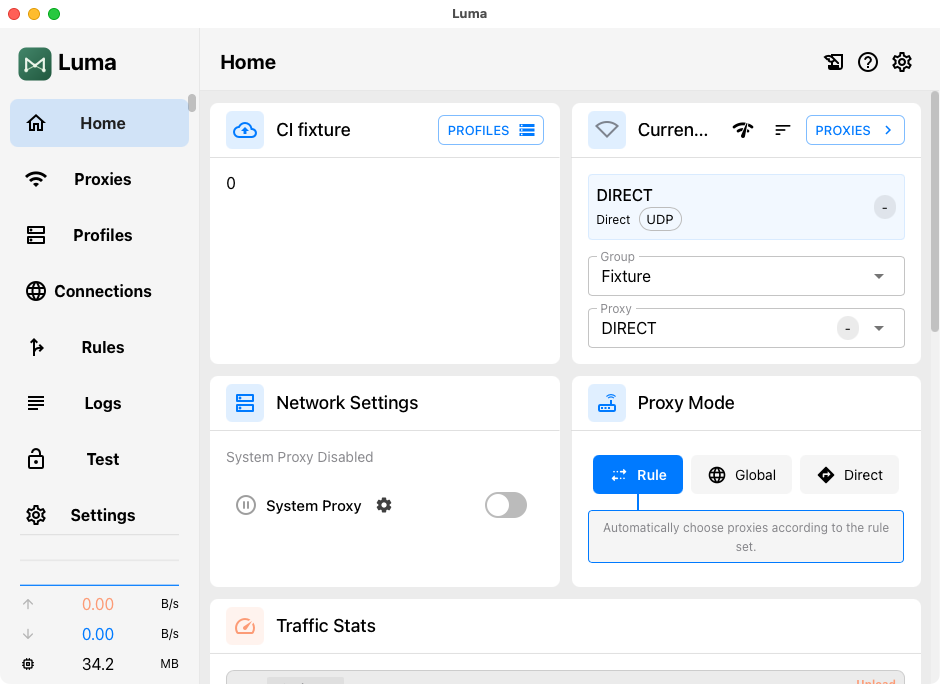
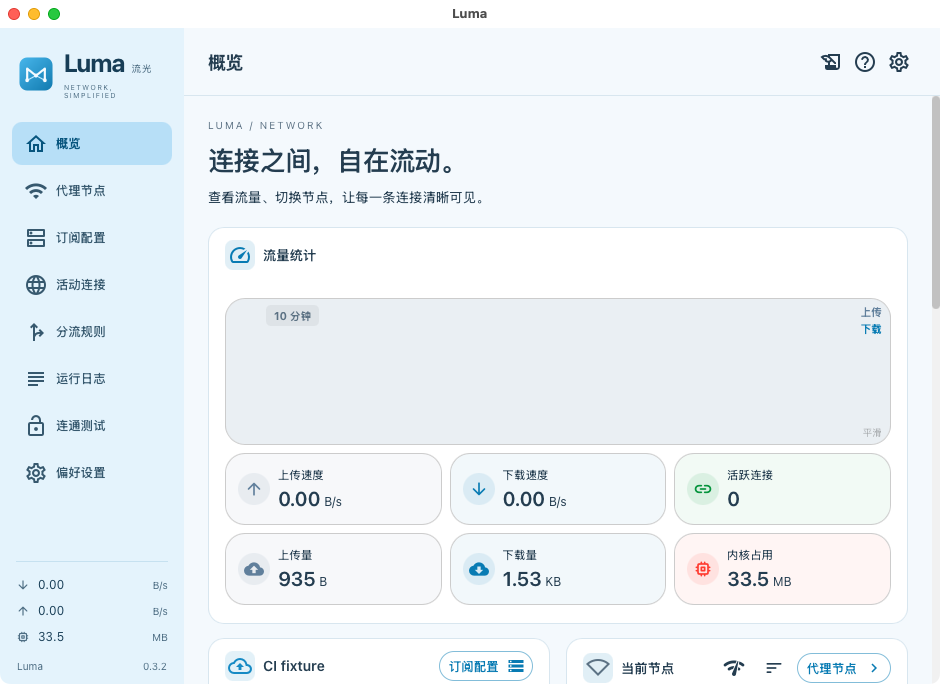
chore(release): publish Luma 0.3.2 download page

diff --git a/website/assets/site.css b/website/assets/site.css
@@ -1,6 +1,6 @@
 @charset "UTF-8";
-:root{--paper:#f5f7f2;--ink:#243d32;--muted:#627468;--green:#287052;--line:#d9e2d8;--soft:#eaf0e7;--white:#fff;--font:-apple-system,BlinkMacSystemFont,"Segoe UI","PingFang SC","Hiragino Sans GB","Microsoft YaHei",sans-serif}
-*{box-sizing:border-box}html{scroll-behavior:smooth;scroll-padding-top:32px}body{margin:0;background:var(--paper);color:var(--ink);font-family:var(--font);-webkit-font-smoothing:antialiased}a{color:inherit;text-decoration:none}button,a{-webkit-tap-highlight-color:transparent}a:focus-visible,summary:focus-visible{outline:3px solid #407958;outline-offset:6px;border-radius:4px}::selection{background:#c9dfbd}img{display:block;max-width:100%}.wrap{width:min(1240px,calc(100% - 96px));margin-inline:auto}.skip-link{position:fixed;left:20px;top:-100px;padding:12px 20px;background:var(--ink);color:white;z-index:20}.skip-link:focus{top:12px}.site-header{height:100px;display:flex;align-items:center;justify-content:space-between;gap:32px;border-bottom:1px solid var(--line)}.brand{display:inline-flex;align-items:center;gap:10px;flex-shrink:0}.brand>span{font-weight:750;font-size:25px;letter-spacing:-1px}.brand small{font-size:13px;letter-spacing:2px;margin-left:6px;font-weight:500}.site-header nav{display:flex;gap:32px;align-items:center;font-size:13px;font-weight:550;color:#536359}.site-header nav a:hover,.text-link:hover,.file-meta a:hover{color:var(--green)}.github-link span{margin-left:5px}.nav-download{display:inline-flex;gap:25px;align-items:center;padding:10px 17px;font-size:13px;border:1px solid var(--line);border-radius:6px;transition:background .2s}.nav-download:hover{background:var(--soft)}.hero{min-height:690px;padding-block:92px 80px;display:grid;grid-template-columns:.85fr 1.25fr;align-items:center;gap:36px}.release-tag{font-size:11px;letter-spacing:.5px;display:inline-flex;align-items:center;gap:10px;padding:7px 11px;border:1px solid #ceddc9;border-radius:4px;background:#edf3e8}.release-tag>span:last-child{margin-left:10px}.status-dot{display:inline-block;width:6px;height:6px;border-radius:50%;background:#45815c;flex-shrink:0}.hero h1{font-size:clamp(44px,4.6vw,66px);font-weight:650;letter-spacing:-3px;line-height:1.3;margin:28px 0 23px}.hero h1>span{color:#41805a}.hero-intro{font-size:15px;line-height:1.95;color:var(--muted);margin:0;letter-spacing:.5px}.hero-actions{display:flex;align-items:center;gap:28px;margin-top:32px}.button{display:inline-flex;justify-content:center;align-items:center;gap:28px;font-size:14px;font-weight:600;min-height:48px;border-radius:6px;padding:12px 23px;transition:background .2s,transform .2s}.button:hover{transform:translateY(-2px)}.button-primary{color:white;background:var(--green);box-shadow:0 5px 12px #17462f0b}.button-primary:hover{background:#215d44}.button svg,.principles svg{width:19px;height:19px;fill:none;stroke:currentColor;stroke-width:1.5;stroke-linecap:round;stroke-linejoin:round}.text-link{font-size:12px;font-weight:550;display:inline-flex;align-items:center;gap:12px}.hero-platforms{font-size:11px;color:#627468;display:flex;gap:18px;flex-wrap:wrap;margin-top:20px}.hero-platforms>span{color:#748175}.hero-art{position:relative;min-width:0;padding:32px 0 26px;isolation:isolate}.hero-art:before{content:"";position:absolute;inset:-38px -23px;background:radial-gradient(ellipse,#d7e3c9 0,transparent 70%);z-index:-2}.orbit{position:absolute;z-index:-1;width:480px;height:480px;left:50%;top:50%;transform:translate(-50%,-50%);border:1px solid #b9c8ad55;border-radius:50%;pointer-events:none}.orbit-two{width:585px;height:585px;border-style:dashed;opacity:.6}.art-caption{display:flex;align-items:center;gap:10px;font-size:8px;letter-spacing:2px;margin:0 0 16px 10px;color:#5f795e}.tiny-cross{font-size:16px;font-weight:300;line-height:1}.app-preview{margin:0;overflow:hidden;border-radius:10px;border:1px solid #cbd7cb;box-shadow:0 24px 65px -26px #263e354d,0 2px 3px #273c3406;background:#fff;transform:perspective(1800px) rotateY(-7deg) rotateX(2deg)}.app-preview img{width:100%;height:auto}.preview-note{display:flex;align-items:center;gap:8px;font-size:10px;letter-spacing:.5px;margin-top:23px;color:#61735e}.preview-version{margin-left:auto;font-size:8px;letter-spacing:1px;color:#74836e}.principles{display:flex;justify-content:space-between;gap:25px;border-block:1px solid var(--line);padding-block:25px;color:#5d7062;font-size:12px}.principles>span{display:flex;align-items:center;gap:12px}.principles svg{color:#3d7455}.section{padding-block:94px}.section-heading{display:flex;justify-content:space-between;align-items:flex-end;gap:40px;margin-bottom:43px}.eyebrow{font-size:9px;letter-spacing:2px;line-height:1.5;color:#718367;margin:0 0 19px;font-weight:600}h2{font-size:38px;line-height:1.45;font-weight:550;letter-spacing:-1px;margin:0}.section-aside{font-size:13px;line-height:1.9;color:var(--muted);margin:0 0 5px}.feature-grid{display:grid;grid-template-columns:repeat(3,1fr);gap:55px}.feature-grid article{border-top:1px solid var(--line);padding-top:24px}.feature-number{font-family:ui-monospace,SFMono-Regular,Consolas,monospace;font-size:10px;letter-spacing:1px;color:#73866d}.feature-grid h3{font-size:20px;margin:25px 0 15px;font-weight:550}.feature-grid p{font-size:13px;line-height:1.9;color:var(--muted);margin:0;min-height:77px}.feature-detail{display:flex;align-items:center;gap:8px;font-size:10px;color:#426b50;margin-top:28px;height:27px}.quiet-symbol{font-size:22px}.mode-demo{display:flex;width:170px;justify-content:space-around;align-items:center;font-size:10px;color:#788470;background:#e8eee2;border:1px solid #d9e2d1;border-radius:5px;padding:3px;margin-top:26px}.mode-demo span{padding:5px 12px}.mode-demo span:first-child{background:#fff;color:#39704e;box-shadow:0 1px 3px #2944280c;border-radius:3px}.download-section{background:#e9eee4;border-block:1px solid #dce4d6;padding-block:85px}.download-section .section-heading{margin-bottom:26px}.version-label{font-size:11px;color:#566d54;display:grid;grid-template-columns:7px auto auto;gap:10px;align-items:center;margin-bottom:8px}.version-label strong{font-family:ui-monospace,SFMono-Regular,monospace;font-size:13px;color:var(--ink);font-weight:500}.version-label small{grid-column:2/4;font-size:10px;color:#687a5e}.device-hint{font-size:11px;color:#66785f;margin:0 0 20px}.download-grid{display:grid;grid-template-columns:repeat(3,1fr);gap:20px}.download-card{background:#f8faf6;border:1px solid #d0ddc9;border-radius:12px;padding:30px 27px 20px}.download-card.is-current{border-color:#91b28d;box-shadow:0 0 0 1px #91b28d}.platform-heading{display:flex;justify-content:space-between;align-items:center}.platform-icon{width:29px;height:29px;fill:#31503b}.windows-icon{width:26px;height:26px}.architecture{font-family:ui-monospace,SFMono-Regular,Consolas,monospace;font-size:9px;color:#6e7e64;border:1px solid #dbe4d5;border-radius:4px;padding:5px 7px}.download-card h3{font-size:24px;font-weight:550;margin:27px 0 8px;letter-spacing:-.5px}.download-card>p{font-size:11px;line-height:1.6;color:#6b7b63;margin:0 0 28px}.platform-download{width:100%;justify-content:space-between;background:#2d684b;color:white;font-size:12px;min-height:44px;padding:12px 16px}.platform-download:hover{background:#21573e}.platform-download span{font-size:17px;font-weight:400}.file-meta{display:flex;justify-content:space-between;gap:7px;margin-top:13px;font-size:9px;color:#63745b}.file-meta a{text-decoration:underline;text-decoration-color:#aab9a1;text-underline-offset:3px}.download-notes{margin-top:22px}.download-notes p{margin:4px 0;font-size:10px;line-height:1.8;color:#687960}.download-notes a{color:#355e40;text-decoration:underline;text-underline-offset:3px}.mobile-note{display:flex;gap:25px;align-items:center;border-top:1px solid #d0ddc8;margin-top:35px;padding-top:25px;font-size:12px}.mobile-note>span:first-child{font-weight:600}.mobile-note p{margin:0;color:#697b61;font-size:11px}.coming-soon{font-size:9px;letter-spacing:1px;border:1px solid #cbd8c2;border-radius:4px;padding:5px 9px;margin-left:auto;white-space:nowrap;color:#657b5c}.guide{display:grid;grid-template-columns:.9fr 1.2fr;gap:80px}.guide-intro .text-link{margin-top:30px;color:#60735c}.questions{border-top:1px solid var(--line)}details{border-bottom:1px solid var(--line);scroll-margin-top:35px}summary{cursor:pointer;list-style:none;display:flex;align-items:center;justify-content:space-between;gap:20px;padding:23px 0;font-size:13px;font-weight:550}summary::-webkit-details-marker{display:none}summary>span{font-size:20px;line-height:1;color:#7b8b6f;font-weight:300;transition:transform .2s}details[open] summary>span{transform:rotate(45deg)}.answer{font-size:12px;line-height:1.95;color:var(--muted);padding-bottom:23px}.answer p{margin:0 0 10px}.answer p:last-child{margin-bottom:0}.site-footer{border-top:1px solid var(--line);padding-block:28px 35px;display:flex;align-items:center;gap:30px}.site-footer .brand>span{font-size:22px}.site-footer .brand small{font-size:11px}.site-footer>p{font-size:11px;color:#687960}.site-footer>div{margin-left:auto;display:flex;gap:23px;font-size:10px;color:#697b61}.site-footer>div a{color:#3d5f45}
+:root{--paper:#f4f9fd;--ink:#243d50;--muted:#5c7284;--accent:#087bb3;--line:#d8e6ef;--soft:#e4f3fc;--white:#fff;--font:-apple-system,BlinkMacSystemFont,"Segoe UI","PingFang SC","Hiragino Sans GB","Microsoft YaHei",sans-serif}
+*{box-sizing:border-box}html{scroll-behavior:smooth;scroll-padding-top:32px}body{margin:0;background:var(--paper);color:var(--ink);font-family:var(--font);-webkit-font-smoothing:antialiased}a{color:inherit;text-decoration:none}button,a{-webkit-tap-highlight-color:transparent}a:focus-visible,summary:focus-visible{outline:3px solid #406479;outline-offset:6px;border-radius:4px}::selection{background:#bdd3df}img{display:block;max-width:100%}.wrap{width:min(1240px,calc(100% - 96px));margin-inline:auto}.skip-link{position:fixed;left:20px;top:-100px;padding:12px 20px;background:var(--ink);color:white;z-index:20}.skip-link:focus{top:12px}.site-header{height:100px;display:flex;align-items:center;justify-content:space-between;gap:32px;border-bottom:1px solid var(--line)}.brand{display:inline-flex;align-items:center;gap:10px;flex-shrink:0}.brand>span{font-weight:750;font-size:25px;letter-spacing:-1px}.brand small{font-size:13px;letter-spacing:2px;margin-left:6px;font-weight:500}.site-header nav{display:flex;gap:32px;align-items:center;font-size:13px;font-weight:550;color:#535d63}.site-header nav a:hover,.text-link:hover,.file-meta a:hover{color:var(--accent)}.github-link span{margin-left:5px}.nav-download{display:inline-flex;gap:25px;align-items:center;padding:10px 17px;font-size:13px;border:1px solid var(--line);border-radius:6px;transition:background .2s}.nav-download:hover{background:var(--soft)}.hero{min-height:690px;padding-block:92px 80px;display:grid;grid-template-columns:.85fr 1.25fr;align-items:center;gap:36px}.release-tag{font-size:11px;letter-spacing:.5px;display:inline-flex;align-items:center;gap:10px;padding:7px 11px;border:1px solid #c9d6dd;border-radius:4px;background:#e8eff3}.release-tag>span:last-child{margin-left:10px}.status-dot{display:inline-block;width:6px;height:6px;border-radius:50%;background:#456b81;flex-shrink:0}.hero h1{font-size:clamp(44px,4.6vw,66px);font-weight:650;letter-spacing:-3px;line-height:1.3;margin:28px 0 23px}.hero h1>span{color:#416980}.hero-intro{font-size:15px;line-height:1.95;color:var(--muted);margin:0;letter-spacing:.5px}.hero-actions{display:flex;align-items:center;gap:28px;margin-top:32px}.button{display:inline-flex;justify-content:center;align-items:center;gap:28px;font-size:14px;font-weight:600;min-height:48px;border-radius:6px;padding:12px 23px;transition:background .2s,transform .2s}.button:hover{transform:translateY(-2px)}.button-primary{color:white;background:var(--accent);box-shadow:0 5px 12px #1735460b}.button-primary:hover{background:#075f8a}.button svg,.principles svg{width:19px;height:19px;fill:none;stroke:currentColor;stroke-width:1.5;stroke-linecap:round;stroke-linejoin:round}.text-link{font-size:12px;font-weight:550;display:inline-flex;align-items:center;gap:12px}.hero-platforms{font-size:11px;color:#5c7284;display:flex;gap:18px;flex-wrap:wrap;margin-top:20px}.hero-platforms>span{color:#747c81}.hero-art{position:relative;min-width:0;padding:32px 0 26px;isolation:isolate}.hero-art:before{content:"";position:absolute;inset:-38px -23px;background:radial-gradient(ellipse,#c9d9e3 0,transparent 70%);z-index:-2}.orbit{position:absolute;z-index:-1;width:480px;height:480px;left:50%;top:50%;transform:translate(-50%,-50%);border:1px solid #adbec855;border-radius:50%;pointer-events:none}.orbit-two{width:585px;height:585px;border-style:dashed;opacity:.6}.art-caption{display:flex;align-items:center;gap:10px;font-size:8px;letter-spacing:2px;margin:0 0 16px 10px;color:#5e6f79}.tiny-cross{font-size:16px;font-weight:300;line-height:1}.app-preview{margin:0;overflow:hidden;border-radius:10px;border:1px solid #cbd3d7;box-shadow:0 24px 65px -26px #26353e4d,0 2px 3px #27343c06;background:#fff;transform:perspective(1800px) rotateY(-7deg) rotateX(2deg)}.app-preview img{width:100%;height:auto}.preview-note{display:flex;align-items:center;gap:8px;font-size:10px;letter-spacing:.5px;margin-top:23px;color:#5e6b73}.preview-version{margin-left:auto;font-size:8px;letter-spacing:1px;color:#6e7b83}.principles{display:flex;justify-content:space-between;gap:25px;border-block:1px solid var(--line);padding-block:25px;color:#5d6970;font-size:12px}.principles>span{display:flex;align-items:center;gap:12px}.principles svg{color:#3d6074}.section{padding-block:94px}.section-heading{display:flex;justify-content:space-between;align-items:flex-end;gap:40px;margin-bottom:43px}.eyebrow{font-size:9px;letter-spacing:2px;line-height:1.5;color:#677983;margin:0 0 19px;font-weight:600}h2{font-size:38px;line-height:1.45;font-weight:550;letter-spacing:-1px;margin:0}.section-aside{font-size:13px;line-height:1.9;color:var(--muted);margin:0 0 5px}.feature-grid{display:grid;grid-template-columns:repeat(3,1fr);gap:55px}.feature-grid article{border-top:1px solid var(--line);padding-top:24px}.feature-number{font-family:ui-monospace,SFMono-Regular,Consolas,monospace;font-size:10px;letter-spacing:1px;color:#6d7d86}.feature-grid h3{font-size:20px;margin:25px 0 15px;font-weight:550}.feature-grid p{font-size:13px;line-height:1.9;color:var(--muted);margin:0;min-height:77px}.feature-detail{display:flex;align-items:center;gap:8px;font-size:10px;color:#425c6b;margin-top:28px;height:27px}.quiet-symbol{font-size:22px}.mode-demo{display:flex;width:170px;justify-content:space-around;align-items:center;font-size:10px;color:#707d84;background:#e2eaee;border:1px solid #d1dce2;border-radius:5px;padding:3px;margin-top:26px}.mode-demo span{padding:5px 12px}.mode-demo span:first-child{background:#fff;color:#395c70;box-shadow:0 1px 3px #283a440c;border-radius:3px}.download-section{background:#e4eaee;border-block:1px solid #d6dfe4;padding-block:85px}.download-section .section-heading{margin-bottom:26px}.version-label{font-size:11px;color:#54646d;display:grid;grid-template-columns:7px auto auto;gap:10px;align-items:center;margin-bottom:8px}.version-label strong{font-family:ui-monospace,SFMono-Regular,monospace;font-size:13px;color:var(--ink);font-weight:500}.version-label small{grid-column:2/4;font-size:10px;color:#5e707a}.device-hint{font-size:11px;color:#5f6f78;margin:0 0 20px}.download-grid{display:grid;grid-template-columns:repeat(3,1fr);gap:20px}.download-card{background:#f6f9fa;border:1px solid #c9d6dd;border-radius:12px;padding:30px 27px 20px}.download-card.is-current{border-color:#8da4b2;box-shadow:0 0 0 1px #8da4b2}.platform-heading{display:flex;justify-content:space-between;align-items:center}.platform-icon{width:29px;height:29px;fill:#314550}.windows-icon{width:26px;height:26px}.architecture{font-family:ui-monospace,SFMono-Regular,Consolas,monospace;font-size:9px;color:#64747e;border:1px solid #d5dee4;border-radius:4px;padding:5px 7px}.download-card h3{font-size:24px;font-weight:550;margin:27px 0 8px;letter-spacing:-.5px}.download-card>p{font-size:11px;line-height:1.6;color:#63727b;margin:0 0 28px}.platform-download{width:100%;justify-content:space-between;background:#087bb3;color:white;font-size:12px;min-height:44px;padding:12px 16px}.platform-download:hover{background:#075f8a}.platform-download span{font-size:17px;font-weight:400}.file-meta{display:flex;justify-content:space-between;gap:7px;margin-top:13px;font-size:9px;color:#5b6b74}.file-meta a{text-decoration:underline;text-decoration-color:#a1b0b9;text-underline-offset:3px}.download-notes{margin-top:22px}.download-notes p{margin:4px 0;font-size:10px;line-height:1.8;color:#607079}.download-notes a{color:#354f5e;text-decoration:underline;text-underline-offset:3px}.mobile-note{display:flex;gap:25px;align-items:center;border-top:1px solid #c8d5dd;margin-top:35px;padding-top:25px;font-size:12px}.mobile-note>span:first-child{font-weight:600}.mobile-note p{margin:0;color:#61717b;font-size:11px}.coming-soon{font-size:9px;letter-spacing:1px;border:1px solid #c2d0d8;border-radius:4px;padding:5px 9px;margin-left:auto;white-space:nowrap;color:#5c707b}.guide{display:grid;grid-template-columns:.9fr 1.2fr;gap:80px}.guide-intro .text-link{margin-top:30px;color:#5c6b73}.questions{border-top:1px solid var(--line)}details{border-bottom:1px solid var(--line);scroll-margin-top:35px}summary{cursor:pointer;list-style:none;display:flex;align-items:center;justify-content:space-between;gap:20px;padding:23px 0;font-size:13px;font-weight:550}summary::-webkit-details-marker{display:none}summary>span{font-size:20px;line-height:1;color:#6f818b;font-weight:300;transition:transform .2s}details[open] summary>span{transform:rotate(45deg)}.answer{font-size:12px;line-height:1.95;color:var(--muted);padding-bottom:23px}.answer p{margin:0 0 10px}.answer p:last-child{margin-bottom:0}.site-footer{border-top:1px solid var(--line);padding-block:28px 35px;display:flex;align-items:center;gap:30px}.site-footer .brand>span{font-size:22px}.site-footer .brand small{font-size:11px}.site-footer>p{font-size:11px;color:#607079}.site-footer>div{margin-left:auto;display:flex;gap:23px;font-size:10px;color:#61717b}.site-footer>div a{color:#3d535f}
 @media(min-width:1600px){.hero{min-height:740px}.hero h1{font-size:70px}}
 @media(max-width:1100px){.wrap{width:calc(100% - 64px)}.hero{gap:26px;min-height:620px;padding-block:70px}.hero h1{font-size:52px}.hero-intro{font-size:13px}.hero-actions{gap:18px}.button-primary{padding-inline:18px;gap:20px}.hero-art .orbit{width:350px;height:350px}.hero-art .orbit-two{width:440px;height:440px}.feature-grid{gap:28px}.download-card{padding:25px 20px 20px}.guide{gap:45px}}
 @media(max-width:800px){.wrap{width:calc(100% - 40px)}.site-header{height:80px;gap:16px}.site-header nav{gap:20px}.site-header nav a:first-child{display:none}.hero{grid-template-columns:1fr;gap:30px;padding-block:55px 35px}.hero-copy{text-align:center}.hero h1{font-size:58px;letter-spacing:-2px;margin-top:25px}.hero-intro{font-size:14px}.hero-actions,.hero-platforms{justify-content:center}.hero-art{width:min(610px,100%);margin-inline:auto;padding-top:24px}.hero-art:before{inset:-15px 0}.hero-art .orbit{width:370px;height:370px;max-width:90%}.hero-art .orbit-two{width:470px;height:470px;max-width:100%}.app-preview{transform:none}.principles{gap:15px;font-size:10px;padding-block:22px}.principles>span{gap:7px}.principles svg{width:17px;height:17px;flex-shrink:0}.section{padding-block:65px}h2{font-size:32px}.section-heading{gap:25px;margin-bottom:30px}.section-aside{font-size:12px}.feature-grid{gap:22px}.feature-grid h3{font-size:17px}.feature-grid p{font-size:12px;min-height:115px}.feature-detail{font-size:9px;gap:5px}.download-section{padding-block:60px}.download-grid{gap:12px}.download-card{padding:22px 16px 18px}.architecture{font-size:8px;padding:4px}.download-card h3{font-size:21px}.platform-download{padding:11px 12px;font-size:11px;gap:8px}.file-meta{font-size:8px}.guide{gap:35px;grid-template-columns:.85fr 1.15fr}.site-footer{gap:15px}.site-footer>div{gap:14px}.site-footer>p{display:none}}

diff --git a/website/index.html b/website/index.html
@@ -3,20 +3,20 @@
 <head>
   <meta charset="UTF-8">
   <meta name="viewport" content="width=device-width, initial-scale=1">
-  <meta name="theme-color" content="#f5f7f2">
+  <meta name="theme-color" content="#f4f9fd">
   <meta name="description" content="Luma 流光，基于 Clash Verge Rev 与 Mihomo 的开源桌面代理客户端。内置内核与规则数据，支持 Mac Apple Silicon、Mac Intel 和 Windows。">
   <meta property="og:title" content="Luma 流光 · 让连接，自由发生">
   <meta property="og:description" content="简洁的界面，清晰的连接。下载 Luma，轻松管理你的代理网络。">
   <meta property="og:type" content="website">
   <title>Luma 流光 · 让连接，自由发生</title>
-  <link rel="icon" href="assets/icon.svg" type="image/svg+xml">
-  <link rel="stylesheet" href="assets/site.css?v=0.3.0">
-  <script src="assets/site.js?v=0.3.0" defer></script>
+  <link rel="icon" href="assets/icon.svg?v=0.3.2" type="image/svg+xml">
+  <link rel="stylesheet" href="assets/site.css?v=0.3.2">
+  <script src="assets/site.js?v=0.3.2" defer></script>
 </head>
 <body>
   <a class="skip-link" href="#main">跳转到正文</a>
   <header class="site-header wrap">
-    <a class="brand" href="#" aria-label="Luma 流光首页"><img src="assets/icon.svg" width="38" height="38" alt=""><span>Luma <small>流光</small></span></a>
+    <a class="brand" href="#" aria-label="Luma 流光首页"><img src="assets/icon.svg?v=0.3.2" width="38" height="38" alt=""><span>Luma <small>流光</small></span></a>
     <nav aria-label="主导航">
       <a href="#features">产品特点</a>
       <a href="#guide">使用指南</a>
@@ -28,7 +28,7 @@
   <main id="main">
     <section class="hero wrap" aria-labelledby="hero-title">
       <div class="hero-copy">
-        <a class="release-tag" href="#downloads"><span class="status-dot"></span> Luma 0.3.0 已发布 <span aria-hidden="true">↗</span></a>
+        <a class="release-tag" href="#downloads"><span class="status-dot"></span> Luma 0.3.2 已发布 <span aria-hidden="true">↗</span></a>
         <h1 id="hero-title">让连接，<br><span>自由发生。</span></h1>
         <p class="hero-intro">把复杂留给内核，把简单留给你。<br>一个清爽、专注的开源桌面代理客户端。</p>
         <div class="hero-actions">
@@ -42,9 +42,9 @@
         <div class="orbit orbit-two" aria-hidden="true"></div>
         <div class="art-caption"><span class="tiny-cross" aria-hidden="true">+</span> YOUR NETWORK, AT A GLANCE</div>
         <figure class="app-preview">
-          <img src="assets/overview.png?v=0.3.0" width="940" height="684" fetchpriority="high" alt="Luma 使用本地测试配置的真实界面：首页、代理组、订阅与连接管理。">
+          <img src="assets/overview.png?v=0.3.2-blue" width="940" height="684" fetchpriority="high" alt="Luma 使用本地测试配置的真实界面：天蓝色概览、代理节点、订阅配置与连接管理。">
         </figure>
-        <div class="preview-note"><span class="status-dot"></span> 清晰掌握每一次连接 <span class="preview-version">LUMA / 0.3.0</span></div>
+        <div class="preview-note"><span class="status-dot"></span> 清晰掌握每一次连接 <span class="preview-version">LUMA / 0.3.2</span></div>
       </div>
     </section>
 
@@ -65,26 +65,26 @@
 
     <section class="download-section" id="downloads" aria-labelledby="downloads-title">
       <div class="wrap">
-        <div class="section-heading"><div><p class="eyebrow">YOUR NEXT CONNECTION</p><h2 id="downloads-title">为你的设备，<br>选一个 Luma。</h2></div><div class="version-label"><span class="status-dot"></span> 当前版本 <strong>0.3.0</strong><small>内置 Mihomo v1.19.32</small></div></div>
+        <div class="section-heading"><div><p class="eyebrow">YOUR NEXT CONNECTION</p><h2 id="downloads-title">为你的设备，<br>选一个 Luma。</h2></div><div class="version-label"><span class="status-dot"></span> 当前版本 <strong>0.3.2</strong><small>内置 Mihomo v1.19.32</small></div></div>
         <p class="device-hint" id="device-hint">Mac 用户可在「 → 关于本机」中查看芯片型号。</p>
         <div class="download-grid">
           <article class="download-card" data-platform="mac">
             <div class="platform-heading"><svg class="platform-icon" aria-hidden="true" viewBox="0 0 32 32"><path d="M21 3c0 3-2 5-5 5 0-3 2-5 5-5ZM23 9c-3-2-5 0-7 0s-4-2-7 0c-5 3-3 13 1 17 2 2 4 0 6 0s4 2 6 0c2-2 4-5 4-7-5-2-5-7-1-9l-2-1Z"/></svg><span class="architecture">Apple Silicon</span></div>
             <h3>Mac M 系列</h3><p>适用于搭载 Apple 芯片的 Mac</p>
-            <a class="button platform-download" href="downloads/0.3.0/Luma-0.3.0-arm64.pkg" download>下载 Mac M 版 <span aria-hidden="true">↓</span></a>
-            <div class="file-meta"><span data-size="mac-arm64">PKG 安装包</span><a href="downloads/0.3.0/Luma-0.3.0-arm64.pkg.sha256">SHA-256</a></div>
+            <a class="button platform-download" href="downloads/0.3.2/Luma-0.3.2-arm64.pkg" download>下载 Mac M 版 <span aria-hidden="true">↓</span></a>
+            <div class="file-meta"><span data-size="mac-arm64">PKG 安装包</span><a href="downloads/0.3.2/Luma-0.3.2-arm64.pkg.sha256">SHA-256</a></div>
           </article>
           <article class="download-card" data-platform="mac">
             <div class="platform-heading"><svg class="platform-icon" aria-hidden="true" viewBox="0 0 32 32"><path d="M21 3c0 3-2 5-5 5 0-3 2-5 5-5ZM23 9c-3-2-5 0-7 0s-4-2-7 0c-5 3-3 13 1 17 2 2 4 0 6 0s4 2 6 0c2-2 4-5 4-7-5-2-5-7-1-9l-2-1Z"/></svg><span class="architecture">Intel · x64</span></div>
             <h3>Mac Intel</h3><p>适用于搭载 Intel 处理器的 Mac</p>
-            <a class="button platform-download" href="downloads/0.3.0/Luma-0.3.0-x64.pkg" download>下载 Mac Intel 版 <span aria-hidden="true">↓</span></a>
-            <div class="file-meta"><span data-size="mac-x64">PKG 安装包</span><a href="downloads/0.3.0/Luma-0.3.0-x64.pkg.sha256">SHA-256</a></div>
+            <a class="button platform-download" href="downloads/0.3.2/Luma-0.3.2-x64.pkg" download>下载 Mac Intel 版 <span aria-hidden="true">↓</span></a>
+            <div class="file-meta"><span data-size="mac-x64">PKG 安装包</span><a href="downloads/0.3.2/Luma-0.3.2-x64.pkg.sha256">SHA-256</a></div>
           </article>
           <article class="download-card" data-platform="windows">
             <div class="platform-heading"><svg class="platform-icon windows-icon" aria-hidden="true" viewBox="0 0 32 32"><path d="M3 6 15 4v11H3Zm14-2 12-2v13H17ZM3 17h12v11L3 26Zm14 0h12v13l-12-2Z"/></svg><span class="architecture">64-bit · x64</span></div>
             <h3>Windows</h3><p>适用于 64 位 Intel / AMD 电脑</p>
-            <a class="button platform-download" href="downloads/0.3.0/Luma-0.3.0-win-x64.exe" download>下载 Windows 版 <span aria-hidden="true">↓</span></a>
-            <div class="file-meta"><span data-size="win-x64">EXE 安装包</span><a href="downloads/0.3.0/Luma-0.3.0-win-x64.exe.sha256">SHA-256</a></div>
+            <a class="button platform-download" href="downloads/0.3.2/Luma-0.3.2-win-x64.exe" download>下载 Windows 版 <span aria-hidden="true">↓</span></a>
+            <div class="file-meta"><span data-size="win-x64">EXE 安装包</span><a href="downloads/0.3.2/Luma-0.3.2-win-x64.exe.sha256">SHA-256</a></div>
           </article>
         </div>
         <div class="download-notes"><p>安装包已包含内核和规则数据，不包含任何个人订阅。Mac 安装器会将应用安装到「应用程序」。</p><p>当前安装包未签名，首次安装可能出现系统安全提示。<a href="#install-note">查看安装说明 ↗</a></p></div>
@@ -95,7 +95,7 @@
     <section class="guide wrap section" id="guide" aria-labelledby="guide-title">
       <div class="guide-intro"><p class="eyebrow">A SIMPLE START</p><h2 id="guide-title">开始之前，<br>你可能想知道。</h2><a class="text-link" href="https://github.com/spkiddai/luma/issues" target="_blank" rel="noopener noreferrer">遇到问题？前往 GitHub <span aria-hidden="true">↗</span></a></div>
       <div class="questions">
-        <details open><summary>安装后，如何开始使用？<span aria-hidden="true">+</span></summary><div class="answer"><p>打开 Luma，内核会默认自动启动。在「订阅」中导入你自己的订阅地址或本地 YAML 文件，再选择代理节点。需要让支持系统代理的应用连接时，可以手动开启「系统代理」。</p><p>从旧版 Luma 升级时会复制导入本地订阅与常用设置，原数据保留。系统代理默认关闭，需要时由你手动开启。Luma 不提供节点或订阅服务。</p></div></details>
+        <details open><summary>安装后，如何开始使用？<span aria-hidden="true">+</span></summary><div class="answer"><p>打开 Luma，内核会默认自动启动。在「订阅配置」中导入你自己的订阅地址或本地 YAML 文件，再选择代理节点。需要让支持系统代理的应用连接时，可以手动开启「系统代理」。</p><p>从旧版 Luma 升级时会复制导入本地订阅与常用设置，原数据保留。系统代理默认关闭，需要时由你手动开启。Luma 不提供节点或订阅服务。</p></div></details>
         <details id="core-connection"><summary>提示内核已运行或无法启动，怎么办？<span aria-hidden="true">+</span></summary><div class="answer"><p>先从托盘正常退出 Luma，再打开「应用程序」中的 Luma。若提示内核仍在运行，请确认是否还有旧版 Luma 窗口或进程；先保存工作，再退出对应应用。仍无法恢复时，可重启电脑后重试。</p><p>Luma 桌面版以内置用户进程运行内核，无需安装其他项目的系统服务。请在「偏好设置 → 数据与应用」中导出诊断信息，提交问题前隐藏订阅地址、密钥和其他私人内容。</p></div></details>
         <details id="install-note"><summary>首次安装提示未签名，怎么办？<span aria-hidden="true">+</span></summary><div class="answer"><p>当前版本尚未进行 Apple 公证与开发者签名，Windows 也可能显示未知发布者提示。请确认文件来自本站，并核对下载卡片提供的 SHA-256 校验值，再按系统提示确认是否允许安装。</p><p>Mac 用户可在「系统设置 → 隐私与安全性」中查看系统拦截的具体说明。无需关闭系统安全保护。</p></div></details>
         <details><summary>还要单独下载内核吗？<span aria-hidden="true">+</span></summary><div class="answer"><p>不需要。三个桌面安装包均包含对应平台的 Mihomo 内核及地理规则数据。安装完成后即可导入配置；你导入的订阅如果引用外部规则或节点列表，仍需联网更新这些内容。</p></div></details>
@@ -105,7 +105,7 @@
   </main>
 
   <footer class="site-footer wrap">
-    <a class="brand" href="#"><img src="assets/icon.svg" width="32" height="32" alt=""><span>Luma <small>流光</small></span></a>
+    <a class="brand" href="#"><img src="assets/icon.svg?v=0.3.2" width="32" height="32" alt=""><span>Luma <small>流光</small></span></a>
     <p>让连接，自由发生。</p>
     <div><a href="https://github.com/spkiddai/luma" target="_blank" rel="noopener noreferrer">GitHub ↗</a><span>基于 Clash Verge Rev / Mihomo · 独立项目</span></div>
   </footer>

diff --git a/website/assets/site.js b/website/assets/site.js
@@ -13,7 +13,7 @@ window.addEventListener('hashchange', revealAnchor);
 revealAnchor();
 
 // The links work without JavaScript. File metadata is generated from the actual release files.
-fetch('downloads/0.3.0/manifest.json')
+fetch('downloads/0.3.2/manifest.json')
   .then(response => response.ok ? response.json() : null)
   .then(manifest => {
     if (!Array.isArray(manifest?.files)) return;

diff --git a/docs/LUMA-FORK.md b/docs/LUMA-FORK.md
@@ -32,16 +32,11 @@ it does not establish an external network speed improvement.
 
 ## Validation
 
-Luma 0.3.1 binaries were built from `d3aabed3f8e34561d6d2f42e11816d3c65db4ab7`.
-[The release workflow](https://github.com/spkiddai/luma/actions/runs/39735600564)
-passed for Apple Silicon, Intel Mac and Windows x64. Each ran 45 frontend tests;
-macOS ran 380 Rust tests and Windows ran 359. Both macOS bundles passed integrity
-verification and the packaged-app lifecycle regression described below.
-
-The 0.3.2 sky-blue and charcoal update is built from
-`4223e20fcb9605bce61afb217a4456bbed76952b`; its
-[workflow run](https://github.com/spkiddai/luma/actions/runs/39746729226) reports
-the current platform results.
+Luma 0.3.2 binaries were built from `4223e20fcb9605bce61afb217a4456bbed76952b`.
+[The release workflow](https://github.com/spkiddai/luma/actions/runs/39746729226)
+passed for Apple Silicon, Intel Mac and Windows x64, including frontend checks,
+Rust tests and core forwarding regressions. Both macOS bundles also passed
+integrity verification and the packaged-app lifecycle regression described below.
 
 The desktop workflow is the authoritative build result for each commit. It runs:
 

diff --git a/website/README.md b/website/README.md
@@ -13,11 +13,11 @@ python3 -m http.server 5187 --bind 127.0.0.1 --directory website
 
 ## Release files
 
-Place verified release artifacts in `website/downloads/0.3.0/`:
+Place verified release artifacts in `website/downloads/0.3.2/`:
 
-- `Luma-0.3.0-arm64.pkg`
-- `Luma-0.3.0-x64.pkg`
-- `Luma-0.3.0-win-x64.exe`
+- `Luma-0.3.2-arm64.pkg`
+- `Luma-0.3.2-x64.pkg`
+- `Luma-0.3.2-win-x64.exe`
 - A matching `<filename>.sha256` text file for each package.
 - `SHA256SUMS.txt` containing the three SHA-256 digests and filenames.
 - `manifest.json`, with `version`, `coreVersion`, `sourceCommit` and a `files`
